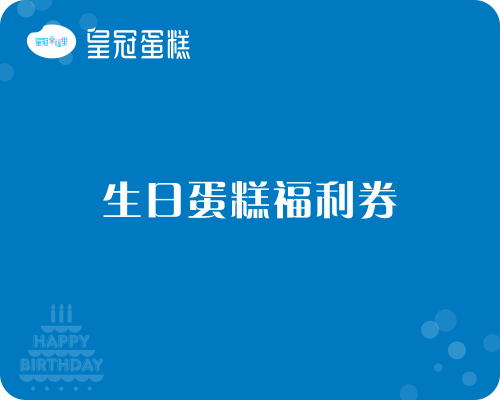
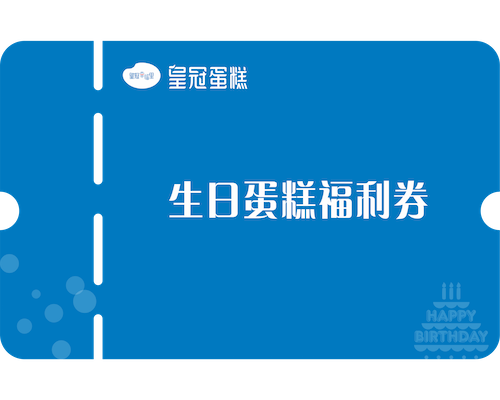
增加申领卡券页面

diff --git a/pages/expectticket/expectticket.js b/pages/expectticket/expectticket.js
@@ -1,4 +1,4 @@
-// pages/ticketroute/ticketroute.js
+// pages/expectticket/expectticket.js
 Page({
 
   /**
@@ -8,33 +8,6 @@ Page({
 
   },
 
-  /**
-   * 点击申请卡券
-   */
-  expectticket: function() {
-    wx.navigateTo({
-      url: '../expectticket/expectticket',
-    })
-  },
-
-  /**
-   * 点击添加券卡
-   */
-  addticket: function () {
-    wx.navigateTo({
-      url: '../addticket/addticket',
-    })
-  },
-
-
-  /**
-   * 点击我的券卡
-   */
-  myticket: function () {
-    wx.navigateTo({
-      url: '../distributeticket/distributeticket',
-    })
-  },
   /**
    * 生命周期函数--监听页面加载
    */

diff --git a/pages/addticket/addticket.js b/pages/addticket/addticket.js
@@ -204,13 +204,14 @@ Page({
         url: addticketUrl,
         method: 'POST',
         data: {
+          wxopenid: wxopenid,
           company: company,
           ticketcode: ticket.ticketcode,
           ticketno: ticket.ticketno,
           productname: ticket.productname,
           price: ticket.price,
-          wxopenid: wxopenid,
-          distributestatus: 0 // 状态0为未使用 1为已使用
+          distributestatus: 0, // 状态0为未分发 1为已分发
+          distributedate: dateUtil.formatTime(new Date())
         },
         success: function(res) {
           success(res);

diff --git a/pages/registry/registry.js b/pages/registry/registry.js
@@ -88,7 +88,8 @@ Page({
         phone: that.data.regInfo.phone,
         authstatus: that.data.authstatus,
         regdate: that.data.regInfo.regdate,
-        numbers: 0  // 刚刚注册 未审核状态 客户拥有的券数量为0
+        expectnumbers: 0, // 刚注册 未审核状态 客户期望申请的券数量为0
+        numbers: 0  // 刚注册 未审核状态 客户拥有的券数量为0
       },
       success: function (res) {
         wx.hideLoading();

diff --git a/utils/api.js b/utils/api.js
@@ -1,7 +1,7 @@
 const crypto = requirePlugin('Crypto');
 var safeBase64 = require('../utils/safebase64.js')
 
-var host = 'https://crowncake.cn:10444';
+var host = 'http://192.168.10.214:18000';
 var ticketGenUrl = `${host}/icapi/tmticket`,
   ticketQueryUrl = `${host}/icapi/tmticketquery`,
   getwxopenidUrl = `${host}/getwxopenid`,

diff --git a/pages/index/index.js b/pages/index/index.js
@@ -12,7 +12,7 @@ Page({
   data: {
     operations: [
       {
-        image: '../../assets/blueCard.png',
+        image: '../../assets/ticketdetail.png',
         name: '发放福利券',
         desc: '福利发放人员入口(需注册认证)',
         indicator: '../../assets/arrow.png',
